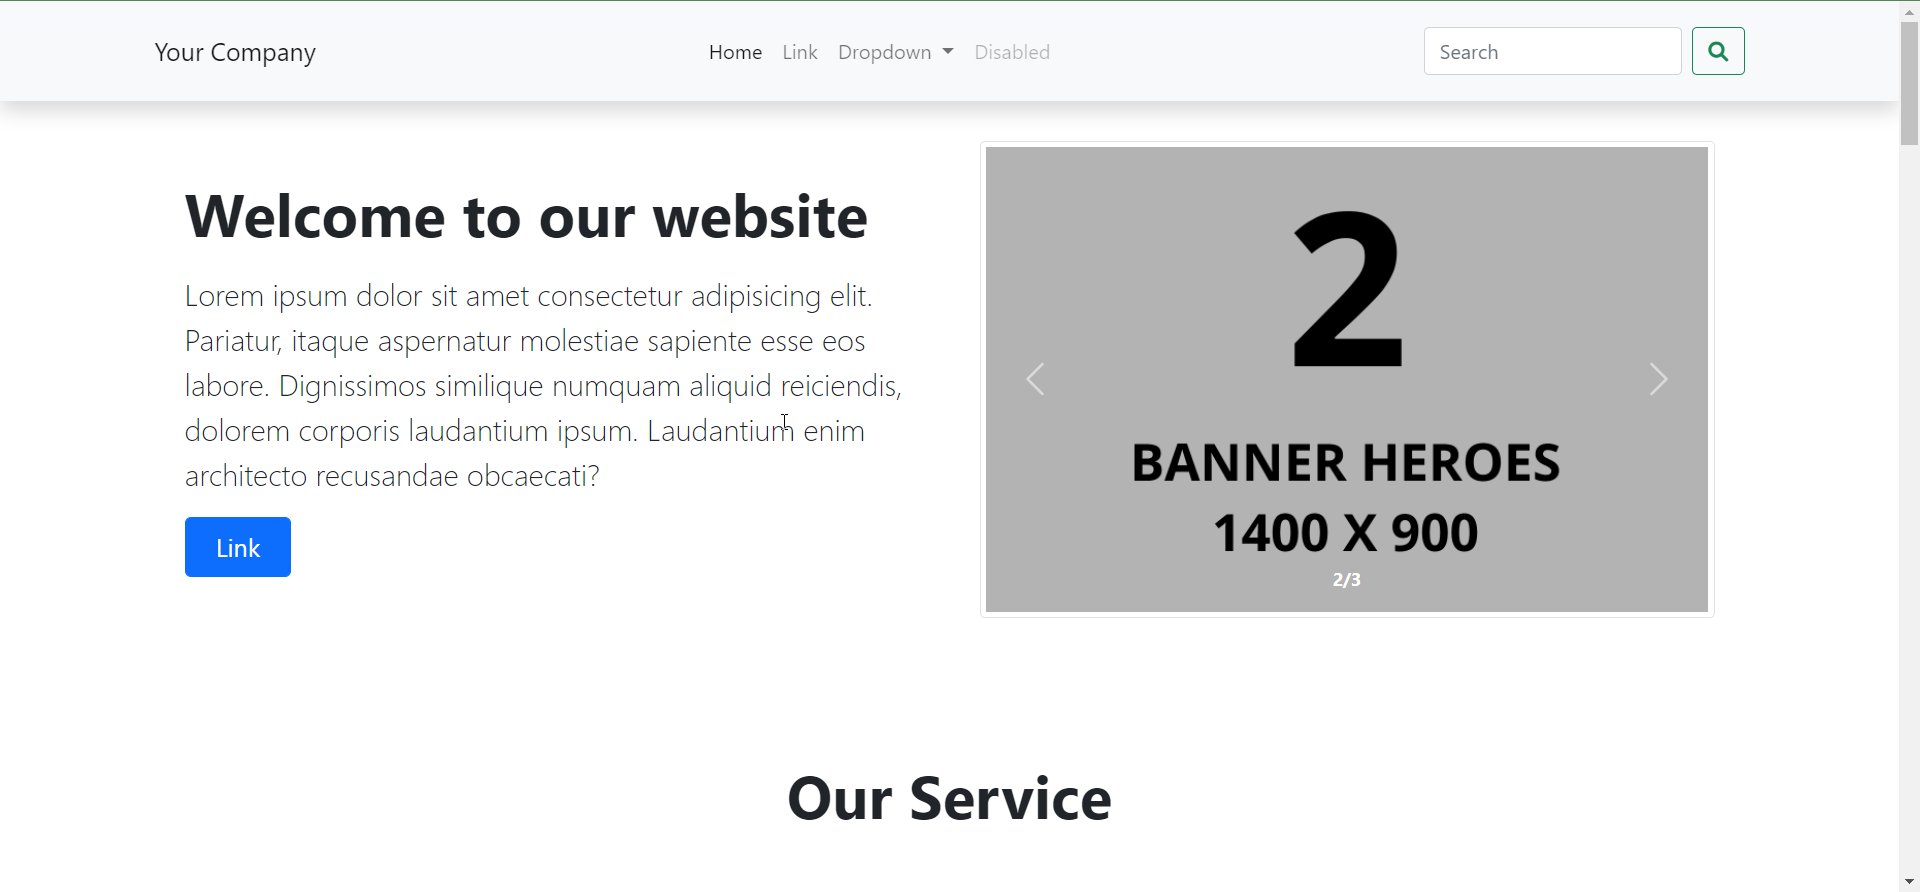
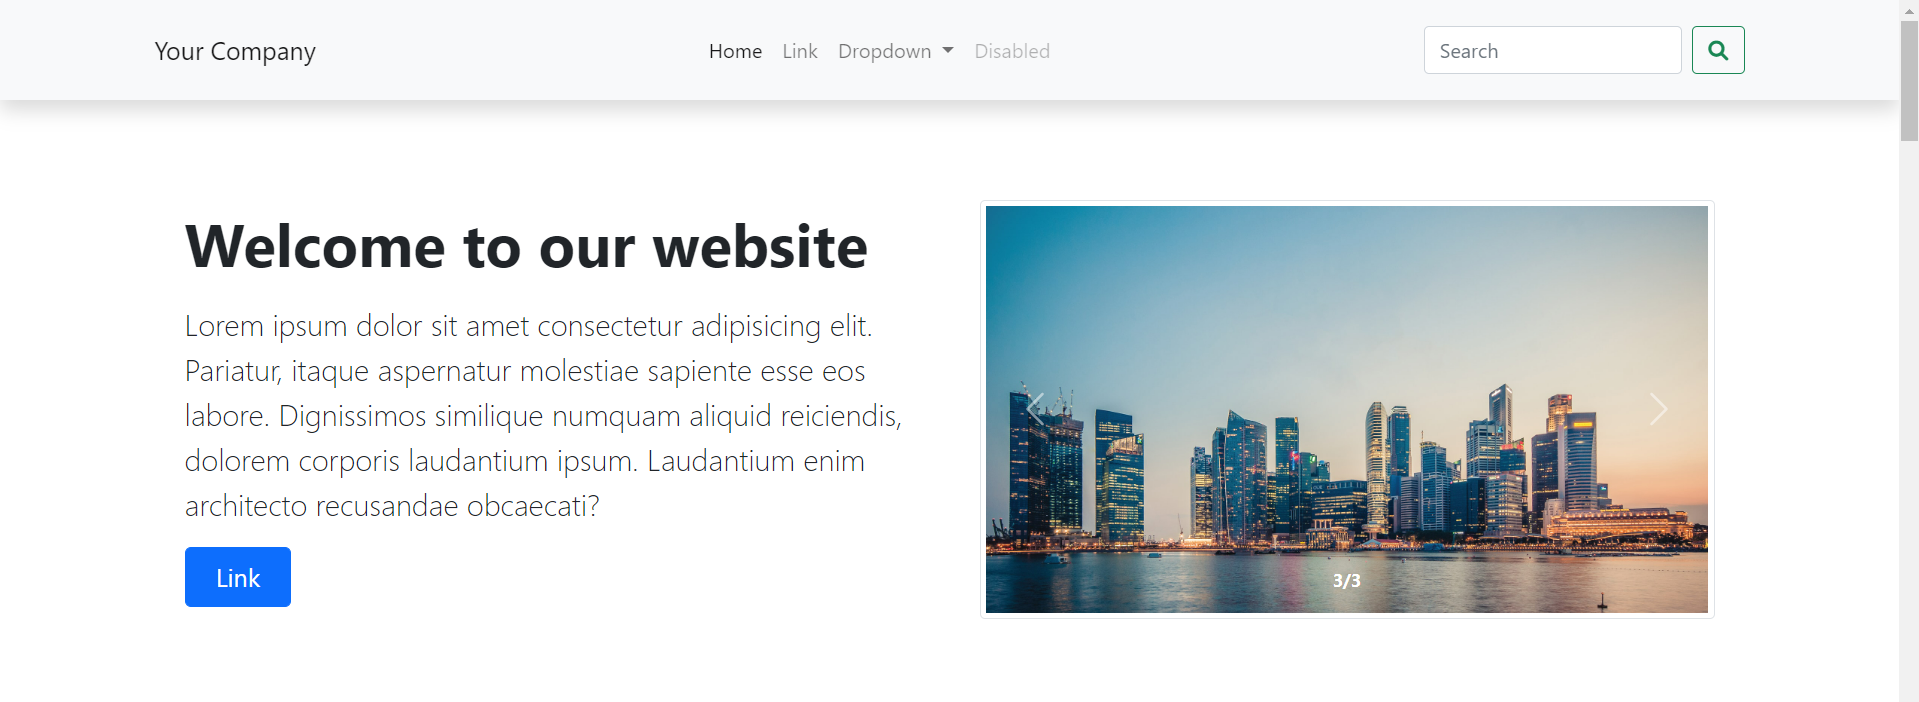
Update Landing Page

diff --git a/index.html b/index.html
@@ -72,19 +72,19 @@
           <div id="carouselExampleControls" class="carousel slide carousel-fade" data-bs-ride="carousel">
             <div class="carousel-inner">
               <div class="carousel-item active">
-                <img src="assets/images/banner_heroes_1.png" class="d-block img-thumbnail img-fluid" alt="...">
+                <img src="https://unsplash.com/photos/rxpThOwuVgE/download?ixid=MnwxMjA3fDB8MXxzZWFyY2h8MTV8fGNvbXBhbnl8ZW58MHx8fHwxNjUyODU3OTI2&force=true&w=1920" class="d-block img-thumbnail img-fluid" alt="...">
                 <div class="carousel-caption d-none d-md-block">
                   <div class="position-absolute bottom-0 start-50 translate-middle-x fw-bold"><small>1/3</small></div>
                 </div>
               </div>
               <div class="carousel-item">
-                <img src="assets/images/banner_heroes_2.png" class="d-block img-thumbnail img-fluid" alt="...">
+                <img src="https://unsplash.com/photos/gMsnXqILjp4/download?ixid=MnwxMjA3fDB8MXxzZWFyY2h8MTJ8fGNvbXBhbnl8ZW58MHx8fHwxNjUyODU3OTI2&force=true&w=1920" class="d-block img-thumbnail img-fluid" alt="...">
                 <div class="carousel-caption d-none d-md-block">
                   <div class="position-absolute bottom-0 start-50 translate-middle-x fw-bold"><small>2/3</small></div>
                 </div>
               </div>
               <div class="carousel-item">
-                <img src="assets/images/banner_heroes_3.png" class="d-block img-thumbnail img-fluid" alt="...">
+                <img src="https://unsplash.com/photos/CQhgno3yhv8/download?ixid=MnwxMjA3fDB8MXxzZWFyY2h8MjB8fGNvbXBhbnl8ZW58MHx8fHwxNjUyODU3OTI2&force=true&w=1920" class="d-block img-thumbnail img-fluid" alt="...">
                 <div class="carousel-caption d-none d-md-block">
                   <div class="position-absolute bottom-0 start-50 translate-middle-x fw-bold"><small>3/3</small></div>
                 </div>
